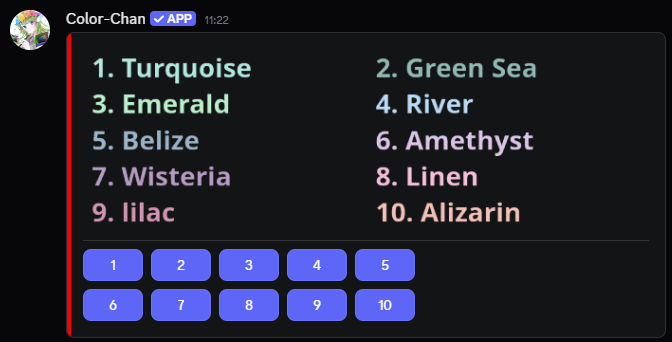
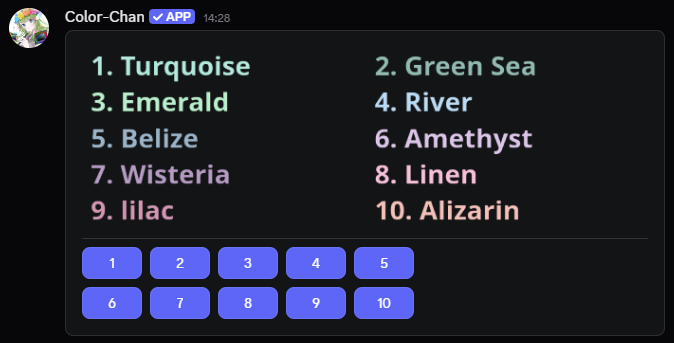
Added more missing docs

diff --git a/docs/documentation/basics.md b/docs/documentation/basics.md
@@ -9,8 +9,9 @@ This sections covers all the basics you need to get started with using Color-Cha
 
 ## Inviting Color-Chan
 
-First, you need to invite Color-Chan to your server. You can do this by clicking on the invite link provided on the [Color-Chan website](https://colorchan.com/permalinks/invite). 
-Make sure you have the necessary permissions to add bots to your server.
+First, you need to invite Color-Chan to your server. You can do this by clicking on the invite link [Color-Chan website](https://colorchan.com/permalinks/invite) or by clicking on the button bellow.
+
+[Invite Color-Chan](https://colorchan.com/permalinks/invite){ .md-button .md-button--primary }
 
 
 ## Move Color-Chan's role
@@ -29,7 +30,7 @@ You can do this by using the `/add rgb color` or `/add hex color`. These command
 
 You can now view your color list with `/color list`! This command will display the full list of colors that have been added to your server.
 
-![Color List](../img/ColorList.png){ align=left, width="800", loading=lazy }
+![Color List](../img/ColorList.png){ align=left, width="600" loading=lazy }
 /// caption
 Example output of the `/color list` command
 ///
@@ -40,7 +41,7 @@ Example output of the `/color list` command
 You can also create reaction color lists that allow users to self-assign color roles by clicking on a button.
 You can either add all the available colors to reaction lists with `/add reaction colors` or you can add specific colors with `/add reaction color`.
 
-![Reaction List](../img/ColorReactionList.png){ align=left, width="800", loading=lazy }
+![Reaction List](../img/ColorReactionList.png){ align=left, width="600" loading=lazy }
 /// caption
 Example reaction list
 ///

diff --git a/docs/documentation/colors/assigning-colors.md b/docs/documentation/colors/assigning-colors.md
@@ -2,3 +2,27 @@
 icon: lucide/pencil
 ---
 
+!!! success "Requirements"
+
+    This section assumes that you have already added colors to your server. If you haven't done so yet, please refer to the [Adding Colors](./adding-colors.md) section first.
+
+## Set color command
+
+Users can assign their own color roles by using the `/set color` command. Or admins or [color managers](../permissions/color-managers.md) can assign colors to other users using the `/set members color @user` command.
+When using the `/set color` command, users can either provide the name or number of the color they want to assign.
+
+![Set Color](../../img/SetColor.png){ align=left width="400" loading=lazy }
+/// caption
+Setting your own color using the `/set color` command
+///
+
+
+## Reaction color lists
+
+Users can also assign their own color roles by clicking on the buttons in a reaction color list.
+Reaction color lists can be created by using the `/add reaction colors` or `/add reaction color` commands.
+
+![Reaction List](../../img/ColorReactionList.png){ align=left width="600" loading=lazy }
+/// caption
+Example reaction list
+///

diff --git a/docs/documentation/colors/adding-colors.md b/docs/documentation/colors/adding-colors.md
@@ -58,7 +58,7 @@ You can also add your own custom colors to the color list. However, this does re
 
 ## Deleting colors
 
-??? warning "Caution"
+??? danger "Caution"
 
     Be careful when using the delete or clear commands, as they will permanently remove colors from your color list. Make sure to double-check before confirming any deletions.
 

diff --git a/docs/faq.md b/docs/faq.md
@@ -2,6 +2,4 @@
 title: FAQ
 ---
 
-# Frequently Asked Questions (FAQ)
-
-Test
+# Frequently Asked Questions
